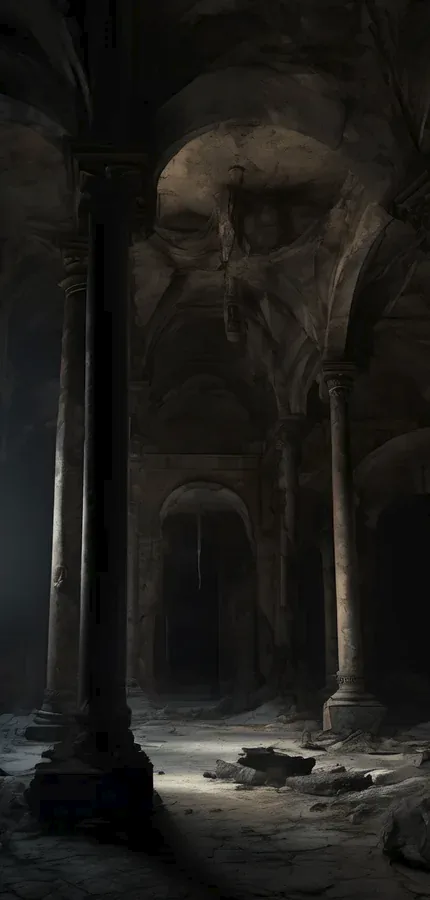
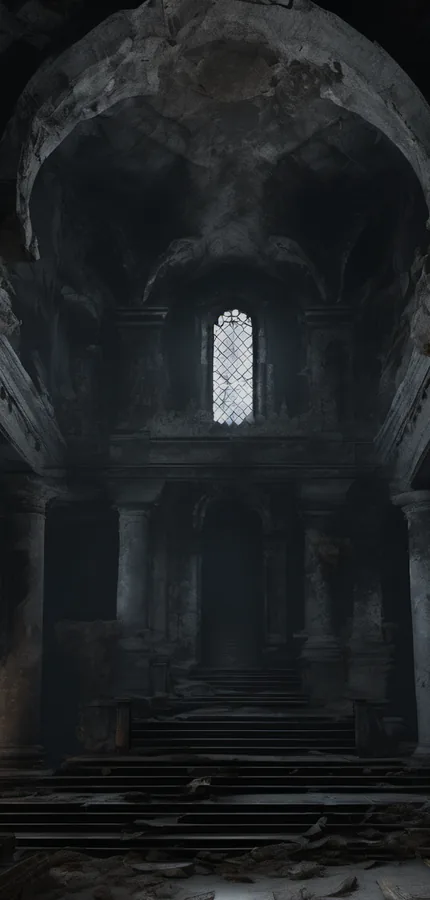
fix(art): CG 焦点D — 序章四幕补进断言范围 + roof/intro2 语义重出 + 后处理脚本入库
- bd-luma: bad() 只遍历 14 张背景，序章四幕的均亮度/亮面积/焦点三条断言从未生效（intro2 焦点 87% 被对白框压住仍全绿）→ 改 18 张全表
- bd-luma: 新增暖光色相中位数/IQR/暗场 p05 三条断言（黄铜 43° 族），三刀变异全红
- roof: 原图是「从外面远看塔」，与 dawn 同构，而台词是「追到塔顶」→ 改提示词站在塔顶重出，压暗系数 0.52
- intro2: 最亮处落在对白框后 → 重出 + --tight=1060 收窄下缘，焦点 87%→43%
- tools/cg-post.py: 补齐「裁切+压暗+webp」这一步（此前只在日志里，仓库无实现）

diff --git a/tools/bd-luma.html b/tools/bd-luma.html
@@ -42,6 +42,27 @@ pre{white-space:pre-wrap}</style>
     lines.push((ok ? '✓ ' : '✗ ') + name + (note ? ' · ' + note : ''));
   }
   function luma(r, g, b) { return 0.2126 * r + 0.7152 * g + 0.0722 * b; }
+  // 色相（0–360）。暖光会横跨 0°（红），所以 >300° 折成负数，纯暖簇的中位数才不会跳到 350。
+  function hue360(r, g, b) {
+    const mx = Math.max(r, g, b), mn = Math.min(r, g, b), d = mx - mn;
+    if (!d) return 0;
+    let h;
+    if (mx === r) h = ((g - b) / d) % 6;
+    else if (mx === g) h = (b - r) / d + 2;
+    else h = (r - g) / d + 4;
+    h *= 60;
+    return h < 0 ? h + 360 : h;
+  }
+  function med(a) {
+    if (!a.length) return NaN;
+    const s = a.slice().sort((x, y) => x - y);
+    return s[s.length >> 1];
+  }
+  function pct(a, p) {
+    if (!a.length) return NaN;
+    const s = a.slice().sort((x, y) => x - y);
+    return s[Math.min(s.length - 1, Math.floor(s.length * p))];
+  }
 
   // src 可以是 svg 字符串（矢量兜底），也可以是图片 URL（2026-11-25 起 CG 接管，量的必须是上屏那张）
   function measure(src) {
@@ -70,14 +91,16 @@ pre{white-space:pre-wrap}</style>
           }
         }
         let sum = 0, n = 0, lit = 0, warm = 0;
+        const wh = [], ch = [], lum = [];   // 暖光/冷光色相样本 + 亮度样本（2026-11-25 焦点D）
         for (let y = 0; y < H; y += STEP) {
           for (let x = 0; x < W; x += STEP) {
             const i = (y * W + x) * 4;
             const r = data[i], g = data[i + 1], b = data[i + 2];
             const L = luma(r, g, b);
-            sum += L; n++;
+            sum += L; n++; lum.push(L);
             if (L >= 90) lit++;
-            if (r > 140 && r > b + 30) warm++;
+            if (r > 140 && r > b + 30) { const h = hue360(r, g, b); warm++; wh.push(h > 300 ? h - 360 : h); }
+            else if (b > 120 && b > r + 30) ch.push(hue360(r, g, b));
           }
         }
         if (!isFinite(sum / n)) { res({ err: 'nan' }); return; }
@@ -86,6 +109,10 @@ pre{white-space:pre-wrap}</style>
           lit: (lit / n) * 100,
           warm: (warm / n) * 100,
           focalY: (best.y / H) * 100,
+          warmH: med(wh),
+          warmIQR: pct(wh, 0.75) - pct(wh, 0.25),
+          coolH: med(ch),
+          floor: pct(lum, 0.05),
         });
       };
       img.onerror = () => res({ err: 'load' });
@@ -102,7 +129,10 @@ pre{white-space:pre-wrap}</style>
   function pad(s, w) { return (s + '                              ').slice(0, w || 10); }
   function row(tag, m) {
     return pad(tag, 10) + m.meanL.toFixed(1).padStart(7) + m.lit.toFixed(2).padStart(7)
-      + m.warm.toFixed(2).padStart(7) + m.focalY.toFixed(0).padStart(6);
+      + m.warm.toFixed(2).padStart(7) + m.focalY.toFixed(0).padStart(6)
+      + (isFinite(m.warmH) ? m.warmH.toFixed(0).padStart(7) : '      —')
+      + (isFinite(m.warmIQR) ? m.warmIQR.toFixed(0).padStart(6) : '     —')
+      + m.floor.toFixed(0).padStart(7);
   }
 
   async function run() {
@@ -129,7 +159,11 @@ pre{white-space:pre-wrap}</style>
     }
 
     // ---- 断言 ----
-    const bad = (pred, label) => KEYS.filter((k) => !ms[k].err && !pred(ms[k])).map((k) => k + label);
+    // 2026-11-25 焦点D：bad() 此前只遍历 KEYS（14 张背景）——序章四幕虽然渲进画布、也参与了「同带」，
+    // 却在均亮度/亮面积/焦点这三项上一条断言都没有。实测 intro2 的视觉焦点在 y=87%（被对白框压住）照样全绿。
+    // 口径统一：四项断言都按 18 张全表算。
+    const ALL = KEYS.concat(['intro1', 'intro2', 'intro3', 'intro4']);
+    const bad = (pred, label) => ALL.filter((k) => !ms[k].err && !pred(ms[k])).map((k) => k + label);
     rec('18 张全部渲进画布（14 背景 + 序章 4 幕）',
       Object.values(ms).every((m) => !m.err),
       Object.values(ms).filter((m) => m.err).length ? '解析失败 ' + Object.keys(ms).filter((k) => ms[k].err).join(',') : '');
@@ -142,6 +176,23 @@ pre{white-space:pre-wrap}</style>
     // 暖光：只有白名单允许「全冷」
     const noWarm = KEYS.filter((k) => !ms[k].err && ms[k].warm <= 0 && !COLD_ONLY[k]);
     rec('每屏一盏暖光（冷光场景须在白名单里）', noWarm.length === 0, noWarm.length ? '无暖光 ' + noWarm.join(',') : '白名单 ' + Object.keys(COLD_ONLY).join('/'));
+    // 2026-11-25 焦点D：上面那条只问「有没有暖像素」，不问「是不是同一盏灯」。三条新断言：
+    //   ① 暖光色相要落在黄铜族（#e8c46a = 43°，实测 30–44 → 钉 26–46）
+    //   ② 一屏之内不许混两种灯色（色相四分位距，实测 0–14 → 钉 16）
+    //   ③ 暗场要有真黑：剪影 #0b0e16 的 luma ≈ 14，背景 p05 必须比它更黑（实测 0–13）
+    const LITWARM = 0.05;   // 暖面积低于这个数的图不判色相（几个像素的中位数没有意义）
+    const hued = ALL.filter((k) => !ms[k].err && ms[k].warm >= LITWARM);
+    const offHue = hued.filter((k) => !(ms[k].warmH >= 26 && ms[k].warmH <= 46));
+    rec('暖光色相在黄铜族 26–46°', offHue.length === 0,
+      offHue.length ? '跑偏 ' + offHue.map((k) => k + '(' + ms[k].warmH.toFixed(0) + '°)').join(',') : `${hued.length} 张参与`);
+    const spread = hued.length ? Math.max.apply(null, hued.map((k) => ms[k].warmH)) - Math.min.apply(null, hued.map((k) => ms[k].warmH)) : 0;
+    rec('整批暖光极差 ≤ 18°（同一批灯）', spread <= 18, `极差 ${spread.toFixed(0)}°`);
+    const twoLamp = hued.filter((k) => ms[k].warmIQR > 16);
+    rec('一屏之内不混两种灯色（IQR ≤ 16）', twoLamp.length === 0,
+      twoLamp.length ? '过宽 ' + twoLamp.map((k) => k + '(' + ms[k].warmIQR.toFixed(0) + '°)').join(',') : '');
+    const noBlack = ALL.filter((k) => !ms[k].err && ms[k].floor > 14);
+    rec('暗场底 p05 ≤ 14（剪影压得住）', noBlack.length === 0,
+      noBlack.length ? '偏灰 ' + noBlack.map((k) => k + '(' + ms[k].floor.toFixed(0) + ')').join(',') : '');
     // 序章四幕与 14 张同带（一致性本体：两批资产走同一套明度语言）
     const acts = ['intro1', 'intro2', 'intro3', 'intro4'].map((k) => ms[k]);
     const bd = KEYS.map((k) => ms[k]);
@@ -149,7 +200,7 @@ pre{white-space:pre-wrap}</style>
     const drift = Math.abs(avg(acts) - avg(bd));
     rec('14 张与序章四幕均亮度同带（差 ≤ 6）', drift <= 6, `序章 ${avg(acts).toFixed(1)} / 背景 ${avg(bd).toFixed(1)} / 差 ${drift.toFixed(1)}`);
 
-    lines.push('', 'scene        meanL   lit%   warm%   fY%');
+    lines.push('', 'scene        meanL   lit%   warm%   fY%  warmH   iqr  floor');
     lines.push.apply(lines, table);
     lines.push('', fail === 0 ? 'ALL PASS ' + pass + '/' + (pass + fail) : 'HAS FAIL ' + fail + ' 项');
     document.getElementById('out').textContent = lines.join('\n');

diff --git a/tools/cg-gen.js b/tools/cg-gen.js
@@ -47,8 +47,12 @@ const SCENES = {
     + 'one blank patch in the lower right, a single torch lighting the carvings from the left',
   carve: 'a stone carving room, a long work table with chisels and a half-finished stone tablet, '
     + 'an empty chair, one low oil lamp on the table',
-  roof: 'the very top of a black tower above a sea of clouds at dawn, broken stone pillars, '
-    + 'an empty stone pedestal in the centre, cold blue sky with a thin warm band on the horizon',
+  // 2026-11-25 焦点D：原提示词「the very top of a black tower above a sea of clouds」被模型读成
+  // 「从外面远看一座塔」——塔身占满画面、没有石台，与 `dawn`（结局从外面看塔）几乎同构。
+  // 而 princessPlain 的台词是「一个人，追到塔顶」——玩家此刻站在塔顶，不该看见塔的外立面。
+  roof: 'camera standing on the flat rooftop of a black tower, broken stone pillars and a cracked parapet close in '
+    + 'the foreground, an empty stone pedestal in the centre of the roof, a sea of clouds far below the parapet, '
+    + 'dark cold night sky with heavy cloud and no dawn glow, no distant tower, no building exterior',
   core: 'the hidden heart of a tower, a circular stone mechanism of concentric rings around a stone pedestal, '
     + 'cold blue light rising from below, four tall lock columns at the corners',
   dawn: 'a black tower on a sea cliff at dawn seen from outside, a thin warm light in its doorway, '
@@ -57,8 +61,12 @@ const SCENES = {
   intro1: 'a ruined throne room, a huge horned demon rendered as a pure black silhouette stands before the throne, '
     + 'holding a small woman silhouette by the arm, cold moonlight behind them, dark red carpet, embers in the air, '
     + 'figures are flat black silhouettes only',
-  intro2: 'a grand empty palace hall at midnight, torn banners hanging from the columns, '
-    + 'moonlight through tall broken windows, a folded pale cloth on a stone pedestal in the foreground, dust',
+  // 2026-11-25 焦点D：原图（空荡拱廊 + 底部一片亮地板）有两个问题——② 第二幕的「帕」根本没画出来，
+  // 而这一幕就是授帕；③ 最亮处在 y≈87%，正好被对白框压住（量尺此前不查序章四幕，所以一直全绿）。
+  // 改成：光从高处破窗进来、帕放在中景矮石台上、地板留在暗里。
+  intro2: 'a grand ruined palace hall at midnight, torn banners hanging from tall columns, '
+    + 'moonlight pouring in high through broken windows near the ceiling, a low stone pedestal in the middle '
+    + 'foreground with a small folded pale cloth resting on it, dark stone floor in deep shadow, dust motes',
   intro3: 'a small stone altar in a dark chapel, a single candle burning on it as the only light, '
     + 'a folded grey cloth and a short sword laid on the stone, deep shadows all around',
   intro4: 'the gate of a black tower at dawn seen from outside, one small hooded figure rendered as a pure black '

diff --git a/tools/cg-post.py b/tools/cg-post.py
@@ -1,0 +1,58 @@
+# CG 后处理：ComfyUI 原图 → 上屏那张 webp
+# ---------------------------------------------------------------------------
+# 2026-11-25 焦点D 补的缺口：11-25 那批 18 张 CG 的「裁切 + 压暗 + 转 webp」这一步
+# 只写在日志里，仓库里没有脚本 ⇒ bible §9.2 写「`node tools/cg-gen.js all` 可复现」其实是半句，
+# 重跑只能拿到 832×1216 的 PNG，落到 assets/cg/ 的那一步无迹可寻。
+# 现在这一步唯一实现就是本文件：
+#     python tools/cg-post.py <scene> <src.png> [factor]
+#     factor 缺省 0.86；天空类（roof/dawn/intro4）用 0.78
+# 顺序不可换：先居中裁 430×900 再压暗——先压暗再缩会在缩放时被重采样拉回来。
+import sys, os, json
+from PIL import Image
+
+ROOT = os.path.dirname(os.path.dirname(os.path.abspath(__file__)))
+W, H = 430, 900
+SKY = {'roof', 'dawn', 'intro4'}     # 天空占比高的整批压得更狠（见 bible §9.2）
+
+
+def luma(im):
+    g = im.convert('L')
+    px = list(g.getdata())
+    return sum(px) / len(px), sum(1 for v in px if v >= 90) / len(px) * 100
+
+
+def main():
+    if len(sys.argv) < 3:
+        print('usage: python tools/cg-post.py <scene> <src.png> [factor] [--tight=<cropH>]')
+        return 2
+    key, src = sys.argv[1], sys.argv[2]
+    args = [a for a in sys.argv[3:] if not a.startswith('--')]
+    factor = float(args[0]) if args else (0.78 if key in SKY else 0.86)
+    tight = None
+    for a in sys.argv[3:]:
+        if a.startswith('--tight='):
+            tight = int(a.split('=')[1])
+    im = Image.open(src).convert('RGB')
+    sw, sh = im.size
+    box_h = min(tight, sh) if tight else sh          # 收窄取景：把多余的下缘裁掉（对白框下的亮斑别占焦点）
+    cw = round(box_h * W / H)
+    if cw > sw:
+        cw = sw
+        box_h = round(cw * H / W)
+    im = im.crop(((sw - cw) // 2, 0, (sw - cw) // 2 + cw, box_h))
+    im = im.resize((W, H), Image.LANCZOS)
+    im = im.point(lambda v: int(v * factor))
+    dest = os.path.join(ROOT, 'assets', 'cg', key + '.webp')
+    im.save(dest, 'WEBP', quality=82, method=6)
+    meanL, lit = luma(im)
+    print(f'✓ {key} → assets/cg/{key}.webp  {sw}x{sh} → {W}x{H}  x{factor}  '
+          f'meanL {meanL:.1f}  lit {lit:.2f}%  {os.path.getsize(dest) // 1024}KB')
+    # 闸门要的是 20–50 / lit ≤16；这里先自报，越界就别等 regress 了
+    if not (20 <= meanL <= 50):
+        print(f'✗ meanL {meanL:.1f} 出带（20–50）：换 factor 重跑')
+        return 1
+    return 0
+
+
+if __name__ == '__main__':
+    sys.exit(main())

diff --git a/PROGRESS.md b/PROGRESS.md
@@ -752,9 +752,25 @@
   本轮不动是因为要连带改 `index.html` / `main.js` 的 `el.bs*` 引用 / `.bs-block` 样式 / 两条契约，而这是每场战斗都走的
   演出链——刚做完动效轮马上动它，风险与收益不成比例。｜复现：打开任意一场战斗，检查 `#bsBlock.hidden` 恒为 true ｜
   影响：体验（残留 DOM 与误导性文案，无功能影响）｜优先级：低。
+- [ ] **CG 换图后没有缓存击穿（2026-11-25 焦点D 发现 · 中）**：`js/backdrops.js` 的 `IMG` 表里全是裸路径
+  （`assets/cg/roof.webp`），而 js/css 走 `?v=<build 指纹>`。`sync-publish` 的指纹只算 html+css+js，
+  **assets 换了指纹不变** ⇒ 换过图的 roof/intro2 在老玩家浏览器里会继续用旧的。
+  修法（三处一起改，别只改一处）：①`cgUrl` 返回 `IMG[k] + '?v=' + ASSET_V`（一个手写常量，换图时 +1）；
+  ②`tools/bd-luma.html` 的 `measure()` 里那条文件判断正则要放行 `?v=`；③bible §9.2 补一行「换图必 bump `ASSET_V`」。
+  ｜复现：改一张 `assets/cg/*.webp` → `node tools/sync-publish.js` → 两次 build 串相同 ｜ 影响：错图（旧画面）｜优先级：中。
+- [ ] **序章第二幕的「帕」在 CG 里没有（2026-11-25 焦点D · 低）**：`intro2` 的提示词两版都写了
+  「a folded pale cloth on a low stone pedestal」，SDXL 两次都没画出来（底模画不出 20px 级小道具，只出氛围）。
+  这一幕的叙事就是**授帕**，现在全靠台词承担。要么用矢量小件叠一块帕（与剪影语言同源，成本最低），
+  要么换中景构图让石台占画面一半。｜复现：`assets/cg/intro2.webp` 目检 ｜ 影响：体验（关键道具缺席）｜优先级：低。
 - [ ] **扩展轮候选备用**：#12 ASMR 触感（微信 `vibrateShort` / H5 `navigator.vibrate`）——属表现层不是内容扩展，
   且本项目当前只有桌面无头环境，"震得对不对"验不了；等真有真机与真人反馈时再评估。
 - [ ] **今日之约的后两步（不急着做，等真有人玩今日一塔再说）**：①让**已解锁**的苦行/无名也进池（按 `Meta` 里的解锁状态过滤，未解锁的日子退回四条基础池）——池子从 4 变 6，但要先确认「同一份日期在不同人的设备上给出不同条约」不会伤「今日」榜的可比性（榜单只比同日同设备群，理论上没事，但那是产品口径不是技术口径）；②「今日之约」目前只在开始页说明，进塔后顶栏徽记不额外提示（有 `vowTag` 一格），若真人反馈「进去就忘了今天有约」，再考虑在第 1 层入口念一句。
+- [ ] **两条长期激励指向相反行为：余烬按击杀、S 档按避战（2026-11-25 变体1 诊断 · 宏观 · 中）**：
+  `main.js:2455` `emberGain = floor(kills/5)`——跨局货币只认击杀数；而 `sim --skip-fights` 实测避战流 S 档可达 76.7%，
+  结算里两条提示同时出现（「再 N 分进 X」与余烬到账）。想解锁苦行/无名就得把每层清干净，想拿 S 就得少打——
+  两个目标在同一次通关里互斥，且**都不告诉玩家互斥**。修法优先级从低到高：①结算把两句合成一句「这局杀了 N 只 → 余烬 x」
+  并把「避战也能 S」放同一行（纯文案，0 风险）；②余烬改成「按层 + 击杀」混合口径（动经济，要重跑 sim）；
+  ③不改，接受双目标（那就别在结算里同时强调两件事）。｜复现：全清一局看结算 ｜ 影响：体验（目标感打架）｜优先级：中。
 - [x] **色板漂移台账（2026-11-17 04:xx，加练 美术 焦点D）**：`css/style.css` 125 个不同色值 / 182 处做了全量分类，与 bible 的 14 个基准色比对出三族漂移——黄铜第四档 `#ffe6a8`（CSS 8 处 + canvas 4 处）、danger 三种红（`#ff6b6b` / `#ff8f8f` / `#ff9b9b`）、23 个 Δ≤14 的近似阶（表面 6 + 文字灰 6 + 其余）。**拍板不收敛**（Δ≤14 在 L0 暗底上不可辨；批量改要重跑 25 屏对比度闸门 + 53 张截图，收益近零），
   处置与再检条件写进 `style-bibles/TowerMates.md` §2.6 台账——**下轮别再重跑这次测量**；触发条件＝同屏出现两个高光/两个同角色色争焦点时，先合并到亮金，不加第五档。
 
